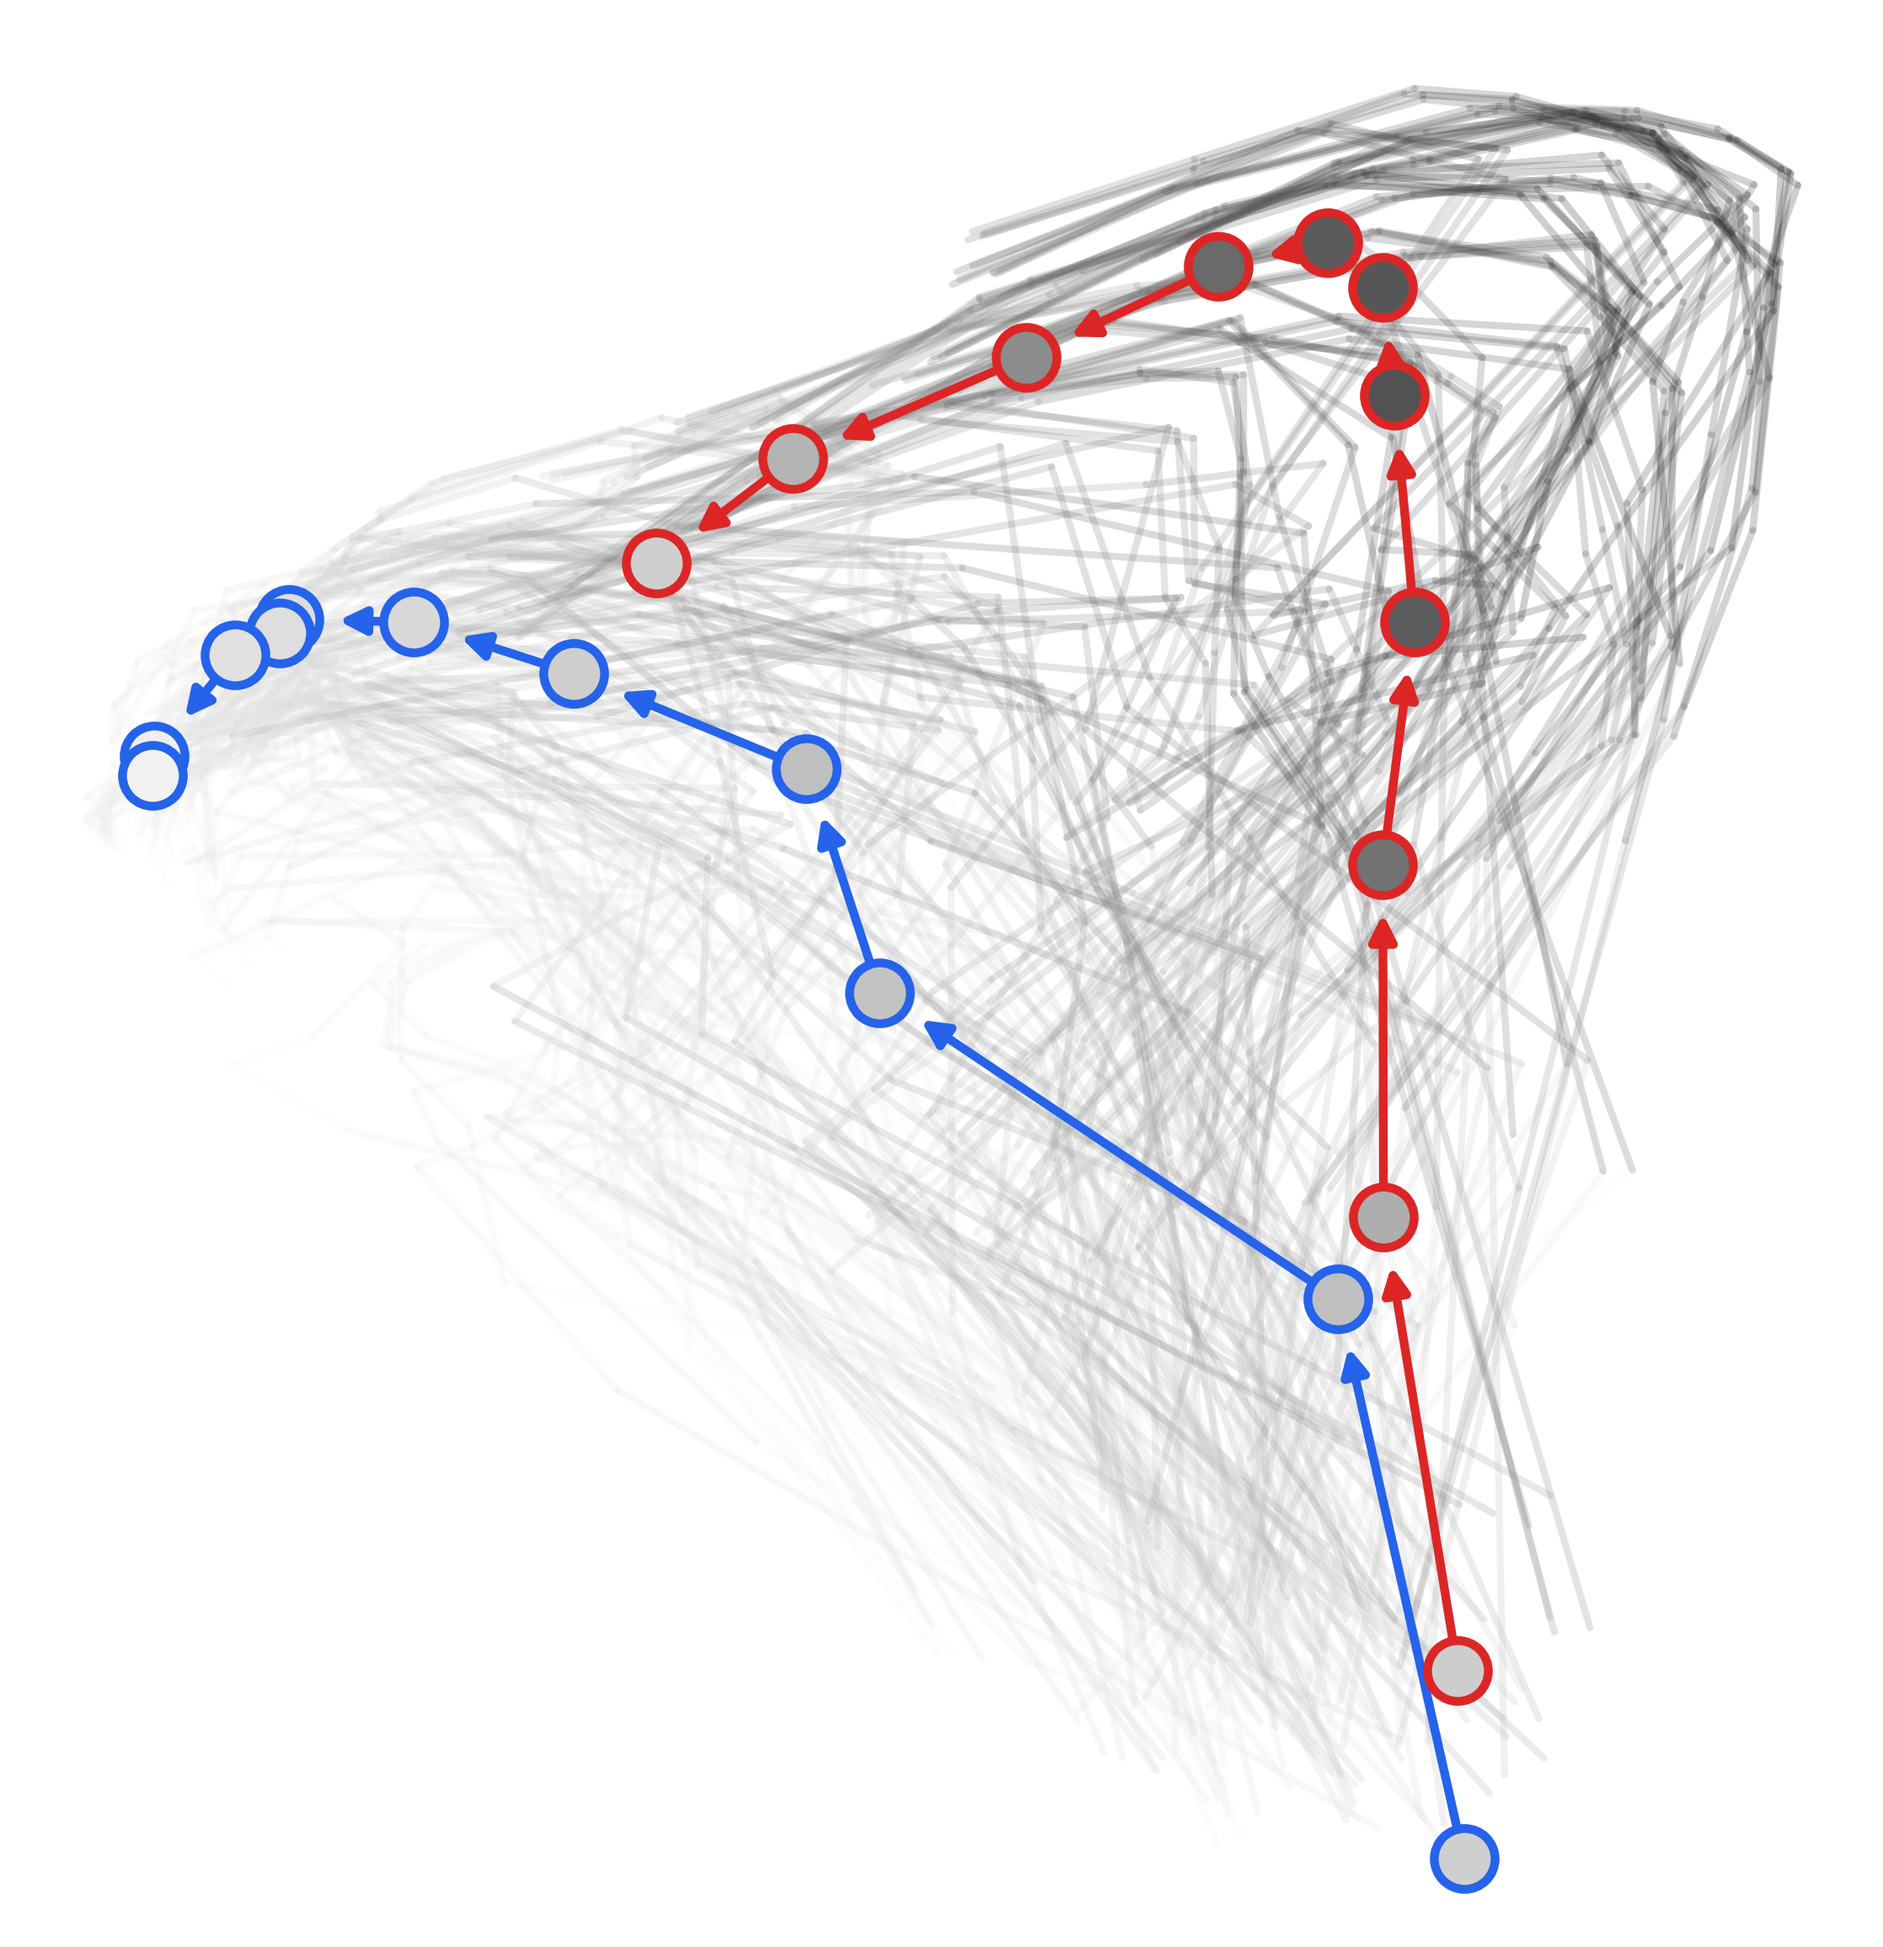
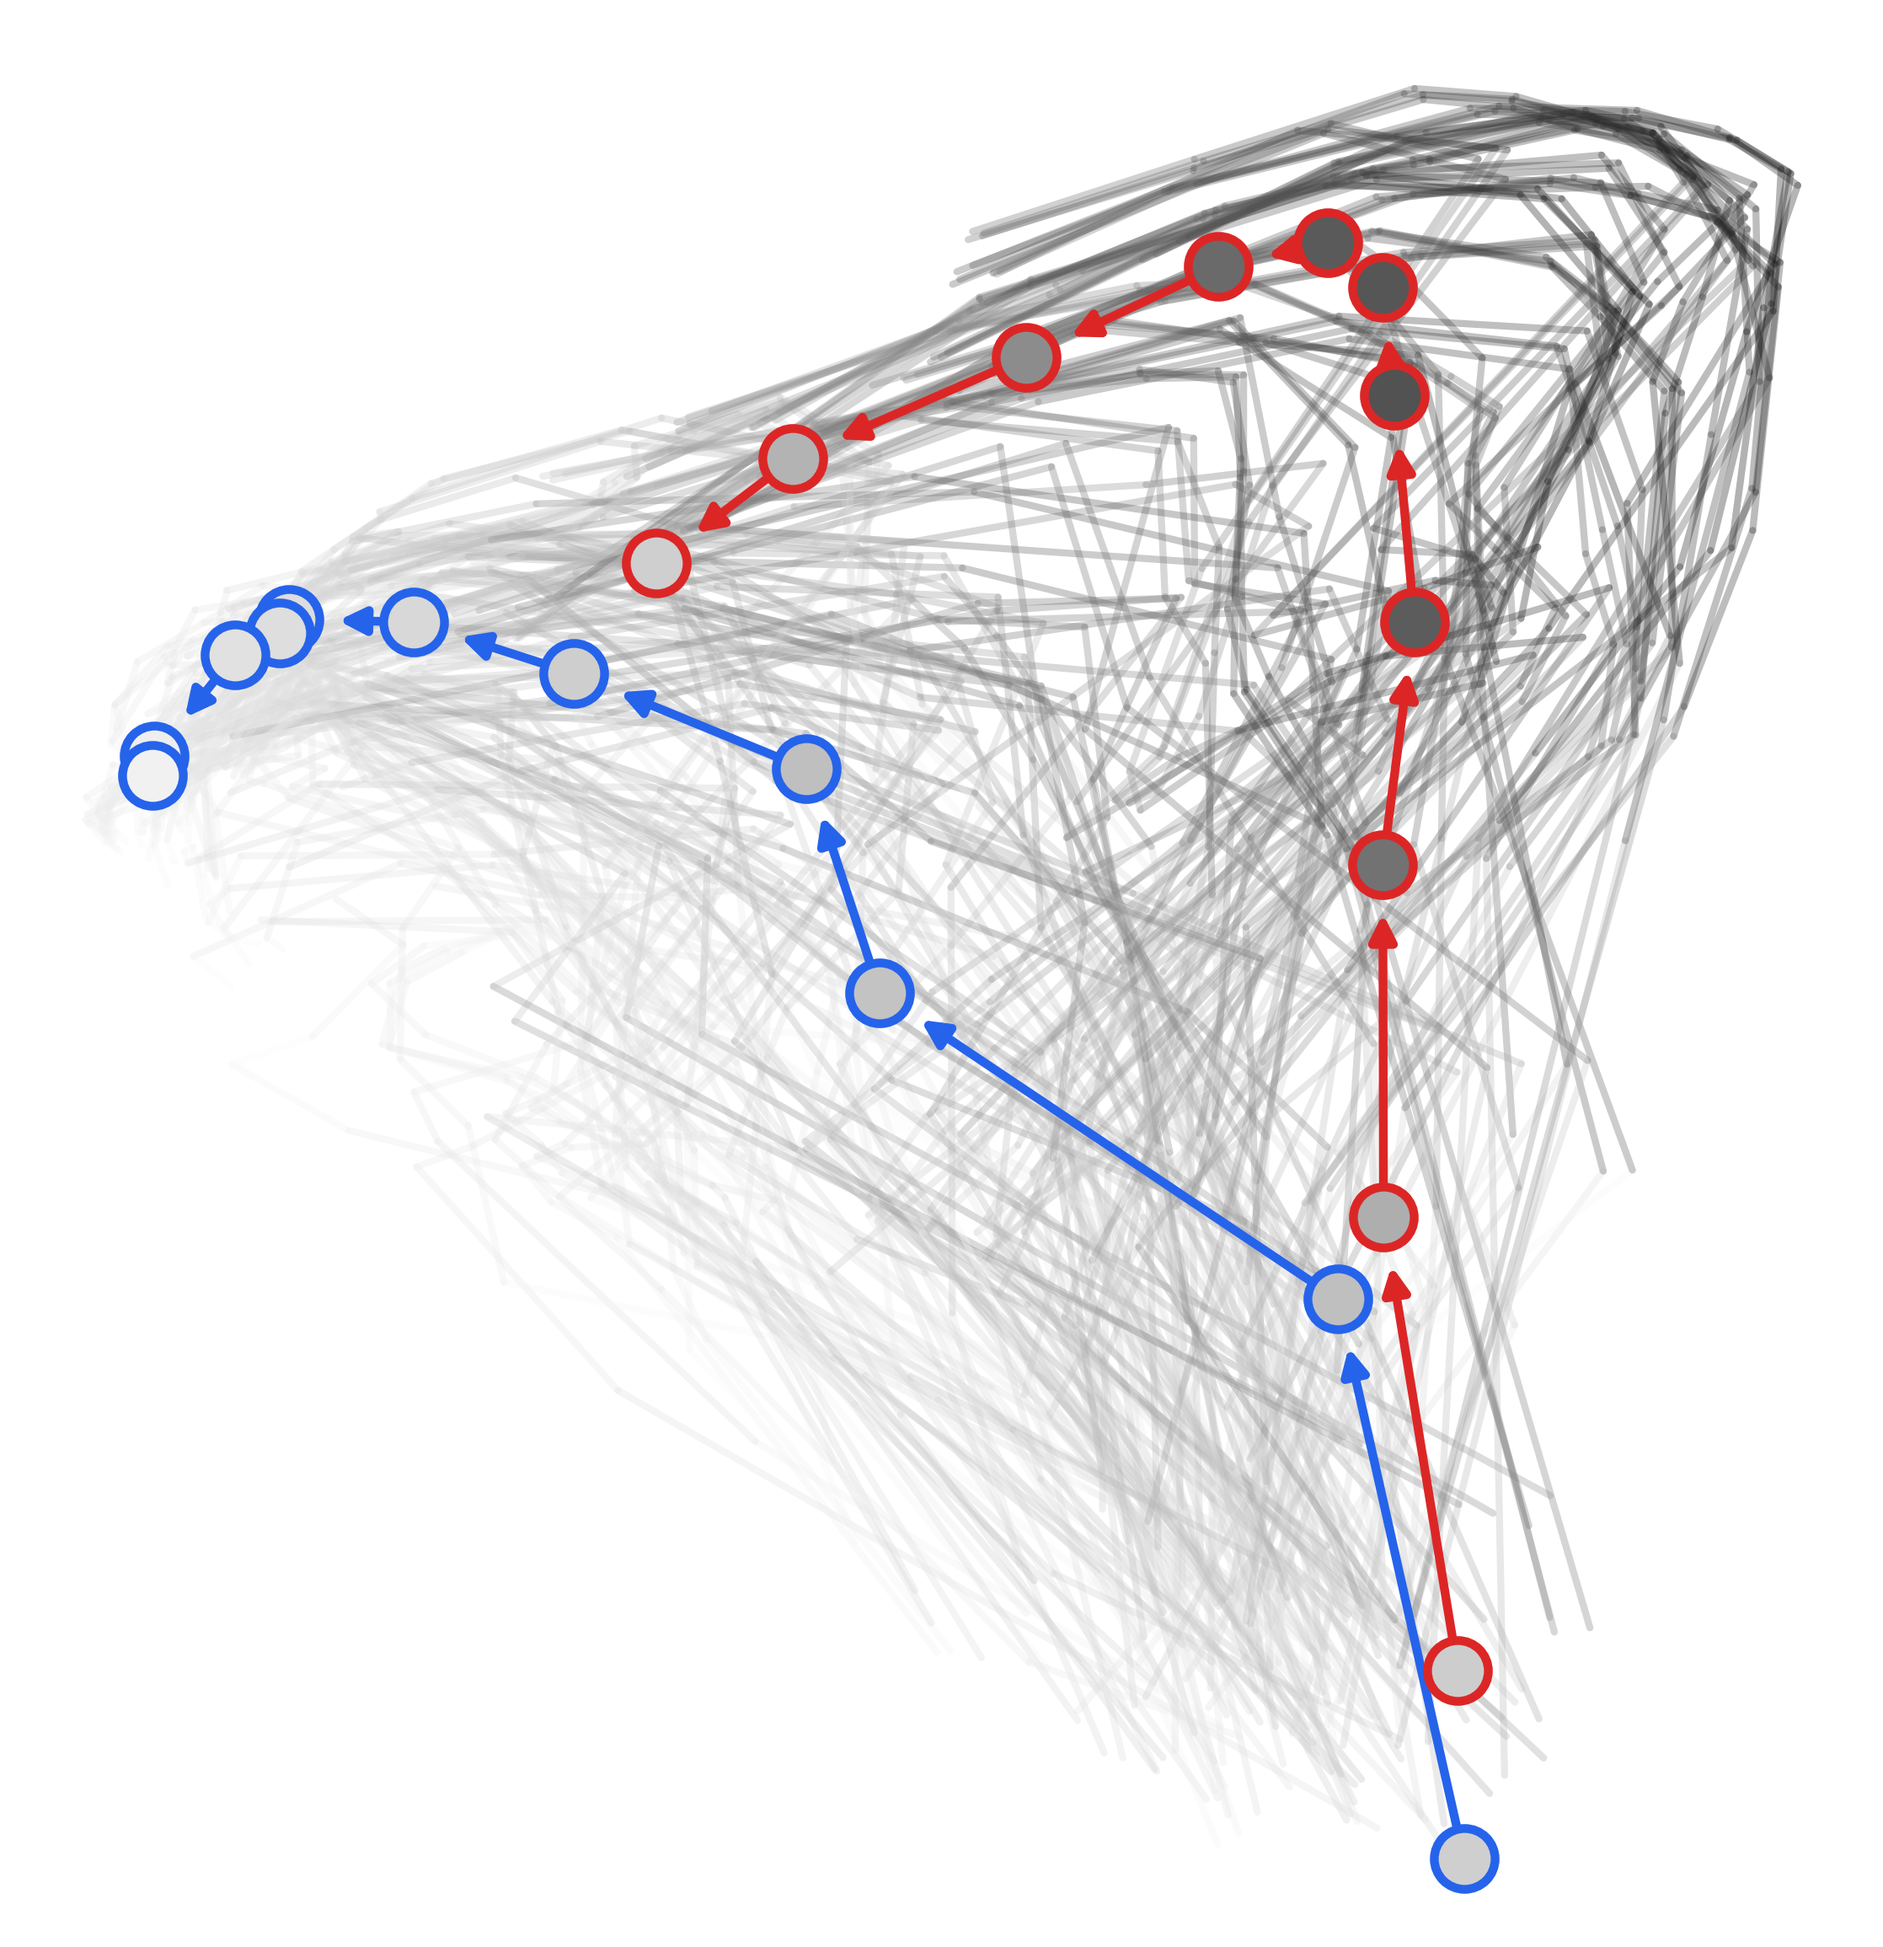
Figures: revert bg-alpha to 0.3

Changed region(s): [[0.5248, 0.0312, 0.957, 0.4987], [0.494, 0.1558, 0.5248, 0.187]]

diff --git a/figures/pc_highlighted.py b/figures/pc_highlighted.py
@@ -85,7 +85,7 @@ def main() -> None:
     ap.add_argument("--size", type=float, default=10.0)
     ap.add_argument("--dpi", type=int, default=300)
     ap.add_argument(
-        "--bg-alpha", type=float, default=0.2,
+        "--bg-alpha", type=float, default=0.3,
         help="Alpha for background trajectory edges.",
     )
     ap.add_argument(
